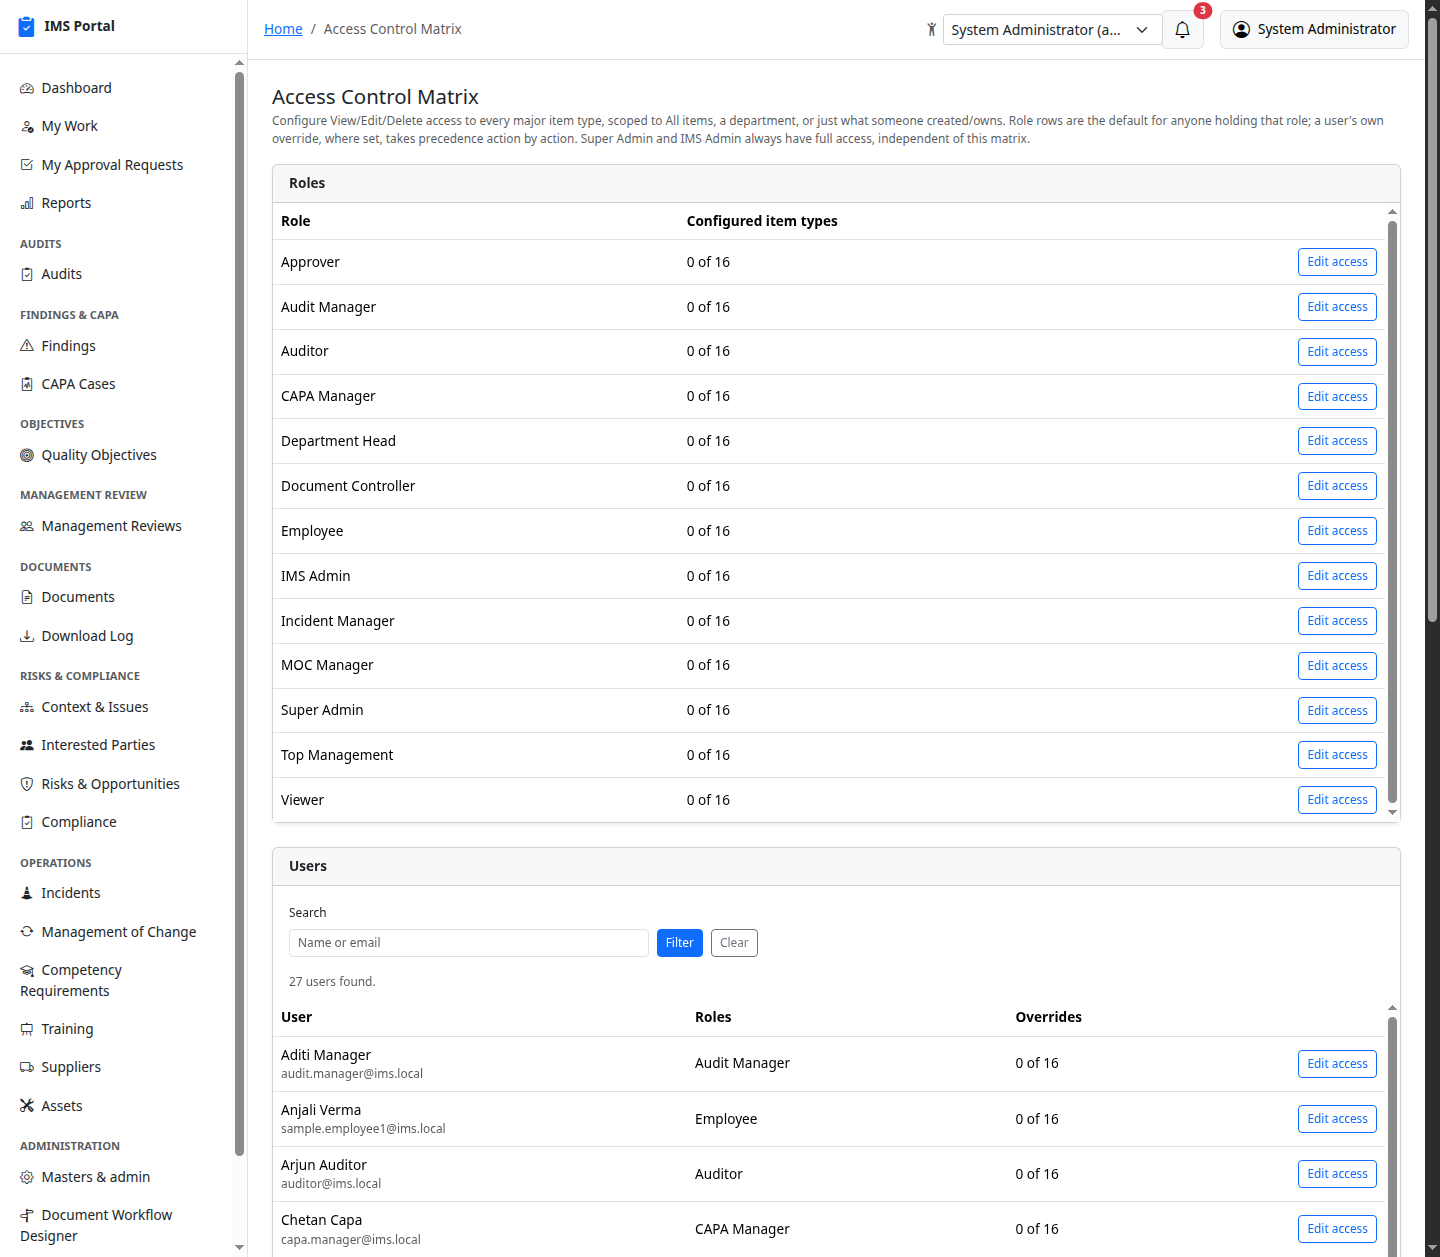
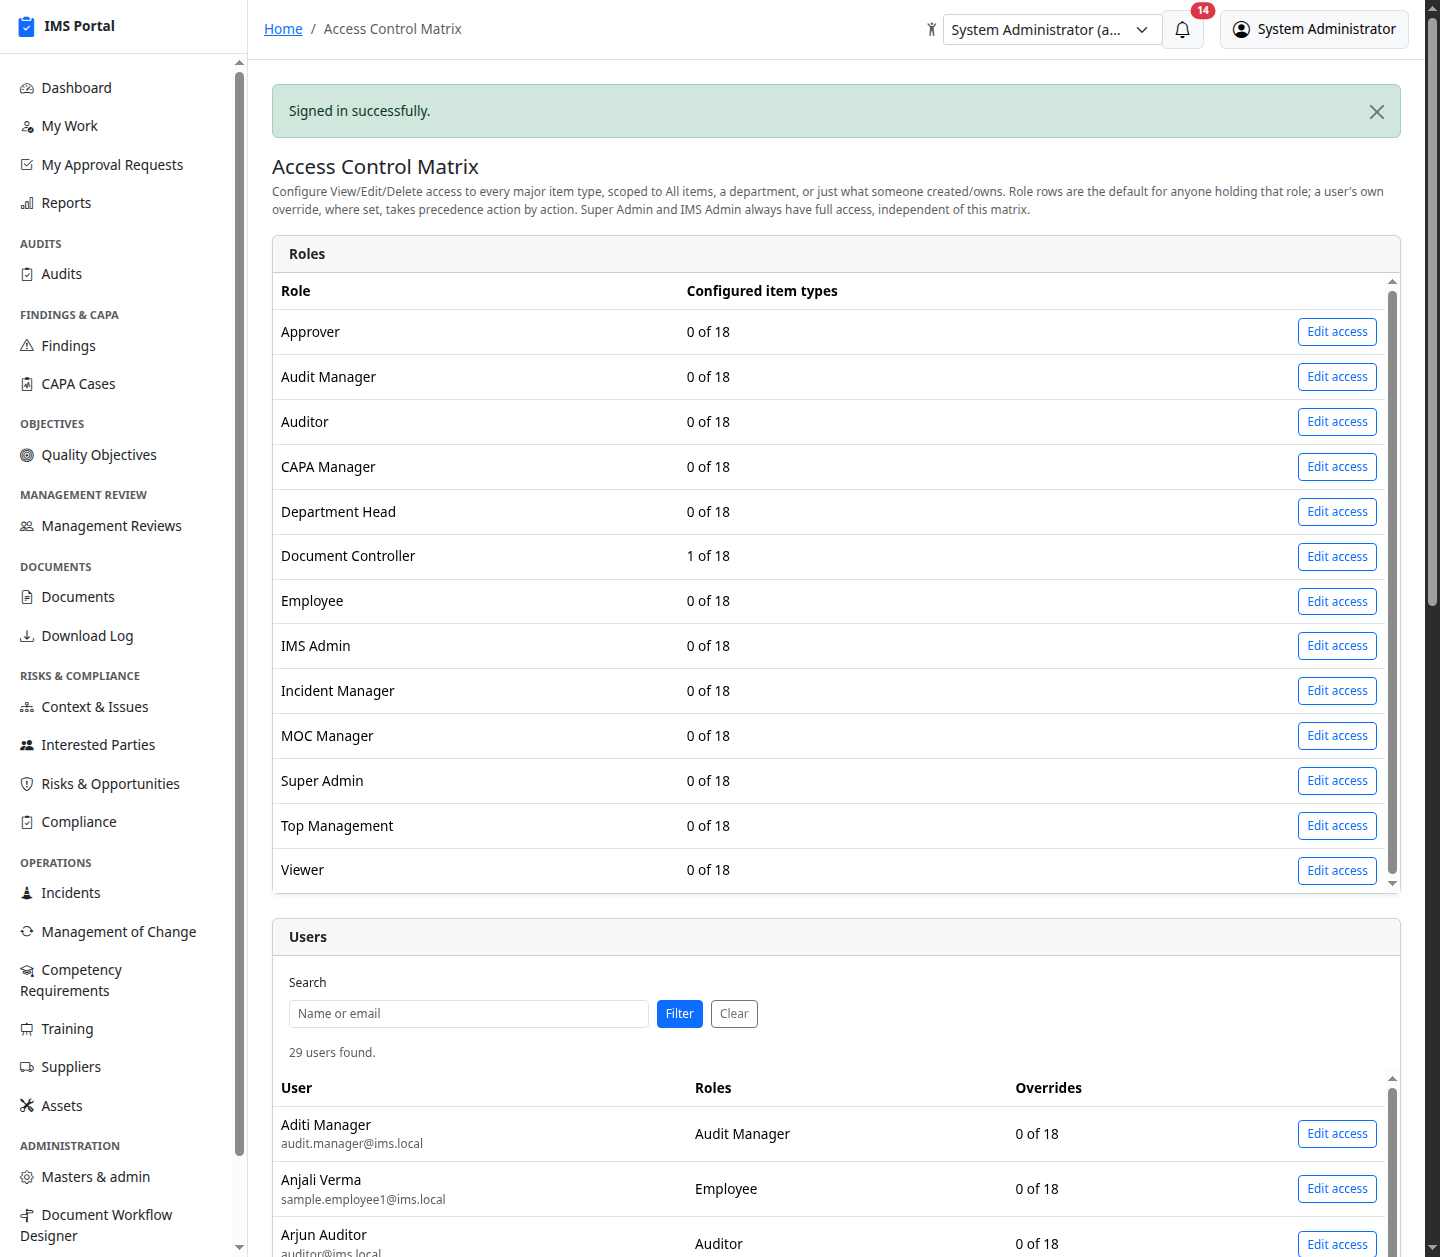
adding some guides for access control

diff --git a/17-access-control-matrix.md b/17-access-control-matrix.md
@@ -1,0 +1,195 @@
+# How the Access Control Matrix works
+
+Every module in this guide already has its own baked-in access rules —
+you own it, you head the department, you're the assigned reviewer, and so
+on. The **Access Control Matrix** (Masters & admin → Access Control
+Matrix) is a second, *optional* layer on top of those rules for the cases
+code doesn't already cover: "let the Viewer role see every asset, company
+-wide" or "let this one auditor into approval history without promoting
+them." It's admin-configurable, so that kind of grant is a form submission,
+not a deploy.
+
+This page is a deep dive into how it actually resolves a grant. For the
+screens themselves, see [Masters & Admin](01-masters-and-admin.md#access-control-matrix).
+
+## The mental model: it only ever adds
+
+The single most important rule: **the matrix never takes anything away.**
+Every ability in the app — the built-in ones and the matrix's own — is a
+grant, and grants only ever combine by addition. Setting a matrix row to
+**None** does not revoke access a model's own bespoke rules already give
+someone; it simply means the matrix itself isn't adding anything extra for
+that resource. There is no way to use this screen to lock someone out of
+something they could otherwise see.
+
+That's why the worked example below reads the way it does: before any
+matrix row exists, a Viewer already sees their own department's Assets
+(the app's ordinary department-based rule); the matrix is what widens that
+to every department, for a whole role or for one specific person.
+
+## Role rows vs. user rows
+
+Every row in the matrix belongs to **exactly one** of:
+
+- A **Role** — the default for everyone holding that role.
+- A **User** — a per-person override, editable action-by-action.
+
+A user's own setting always wins over their role's, but only for the
+actions it actually sets. On a user's page every field starts on
+**Inherit from role**, meaning "no opinion — use whatever my role(s)
+grant for this one action." You can override just Delete for one person
+on one resource type and leave View and Edit inherited; nothing forces
+all three to move together.
+
+If someone holds two roles with different settings for the same resource,
+the **more permissive one wins** (see [Resolution order](#resolution-order-precisely)
+below) — same principle: additive, never restrictive.
+
+## The four scopes
+
+Each of the three columns — **View / Edit / Delete** — is set
+independently to one of:
+
+| Scope | Meaning |
+|---|---|
+| **None** | The matrix grants nothing extra for this action. (Not a lockout — see above.) |
+| **Own** | Records this person created or owns. |
+| **Department** | Records belonging to any department they're a member of. |
+| **All** | Every record of this type, company-wide, regardless of department or ownership. |
+
+**Own** and **Department** are only offered where the underlying model
+actually has a column the matrix knows how to scope by — a few models
+(Training Sessions, Suppliers) have no owner or department field, so
+those two options simply don't appear for them; you'll only ever see
+**None** and **All**.
+
+## Resolution order, precisely
+
+For a given user, resource type, and action (say: "Karan Mehta", "Asset",
+"view"), the effective scope is computed as:
+
+1. **Does Karan have his own override row for Asset, with a non-nil View
+   value?** If yes, that value wins outright — done.
+2. **Otherwise, look at every role Karan holds.** Collect the View value
+   from each role's Asset row, if it has one. Take the single most
+   permissive value across all of them (`all` beats `department` beats
+   `own` beats `none`).
+3. **No role has a rule for Asset at all?** The matrix contributes
+   nothing — falls through to whatever the model's own ability rules
+   already grant.
+
+This is exactly what `AccessControlRules::Resolver#scope_for` does, and it
+loads every rule for that user once up front, so checking all eighteen
+matrix rows for a page costs two queries total, not two per row.
+
+## Worked example: widening a role, then overriding one person
+
+The **Viewer** role in this app's sample data has no bespoke code-level
+abilities of its own — everything a Viewer sees, they see either through
+the app's ordinary "your own department" rules or through the matrix.
+That makes it a clean, real illustration of what the matrix actually adds.
+
+**Before:** Farhan Sheikh (Viewer role, Production department) opens
+Assets and sees exactly the four assets in his own department — the
+app's normal department-scoped rule, nothing matrix-related yet:
+
+![Assets, before any matrix grant — scoped to Farhan's own department](images/masters-admin/27-worked-example-before.png)
+
+**Grant the Viewer role company-wide View on Assets.** Masters & admin →
+Access Control Matrix → **Viewer** → **Edit access** → set the Assets row's
+View column to **All** → **Save**:
+
+![Setting Assets → View → All for the Viewer role](images/masters-admin/29-role-matrix-selected.png)
+
+**After:** reload as Farhan — now 17 assets across every department, not
+just Production. Nothing about his role, his department membership, or
+his account changed; only the matrix row did:
+
+![Assets, after the role-level grant — every department](images/masters-admin/30-worked-example-after-role-grant.png)
+
+**Now make it personal, not role-wide.** Suppose that company-wide view
+should really only apply to Farhan, not every Viewer. Put the role's
+Assets row back to **None** (removing the blanket grant), then open
+**Farhan Sheikh**'s own row from the matrix's **Users** list and set
+*his* Assets → View to **All** — everyone else with the Viewer role loses
+the company-wide view; Farhan personally keeps it:
+
+![Farhan Sheikh's own override: Assets → View → All, everything else still inherited](images/masters-admin/31-user-override-selected.png)
+
+Saving a user's matrix redirects back to the index, which now shows the
+override in the **Overrides** column of the Users list:
+
+![Access Control Matrix index — Farhan Sheikh now has 1 of 18 overridden](images/masters-admin/32-user-override-after-save.png)
+
+Farhan still sees all 17 assets — this time from his own override, not
+from the role:
+
+![Assets, after the per-user override — still every department](images/masters-admin/33-worked-example-after-user-override.png)
+
+That's the whole mechanism: a role row sets the default for a whole
+group; a user row carves out one person's exception, action by action,
+without touching the role or anyone else holding it.
+
+## Removing a grant
+
+- **On a role's page**, every field always has a real value (there's no
+  "inherit" option — a role has nothing above it to inherit from), so
+  "removing" a grant means explicitly setting it back to **None**.
+- **On a user's page**, setting every field for a resource back to
+  **Inherit from role** and saving deletes that row entirely, rather than
+  leaving a dead all-inherited row behind — that's what makes "no
+  override" actually mean "no row exists," not "a row that happens to
+  say nothing."
+
+## Non-model rows: matrix-driven feature toggles
+
+Most rows govern a real record type end-to-end — View/Edit/Delete on the
+whole thing. Two rows are different: they don't correspond to an
+ActiveRecord model at all, and only their **View** column does anything
+(Edit/Delete show **Not applicable**, since there's nothing on a tab to
+edit or delete):
+
+- **Documents — Version Control tab** — shows or hides the Version
+  Control tab on a document's page. Ships with one seeded default (the
+  **Document Controller** role gets **View: All**), but from here it's
+  an ordinary matrix row like any other.
+- **Documents — Approval/Activity/Download Log tabs** — widens who sees
+  those three tabs *beyond* whoever the Admin Department/Admin All
+  document tier already shows them to. Ships with **no** default row,
+  since the tier-based grant already covers the normal case — use this
+  one to add a specific role or specific person without changing their
+  document tier.
+
+Internally, these resolve through the exact same
+`AccessControlRules::Resolver#scope_for` call as every real-model row —
+the only difference is what happens with the result. An ordinary row
+feeds `grant_matrix_scope`, which turns a scope into a generic
+`can <action>, SomeModel[, condition]`. A non-model row is read directly
+by `Abilities::AccessControlMatrix#apply_synthetic_matrix_abilities` and
+turned into one named ability instead (`:read_version_history` /
+`:read_document_admin_tabs`), because "View: Department" wouldn't mean
+anything for a tab that isn't attached to a department column. See
+[Documents](07-documents.md#version-control-and-other-tab-visibility) for
+these two in action.
+
+This is a general pattern, not a Documents-only special case — any future
+feature/tab-level toggle can register itself the same way (`synthetic:
+true`, `actions: %i[view]`, no department/own condition) without changing
+the matrix UI, the resolver, or the controller at all.
+
+## ims_admin and Super Admin
+
+**Super Admin** bypasses all of this — `can :manage, :all` — before any
+ability module, including the matrix, ever runs.
+
+**IMS Admin** gets an equivalent blanket grant, but scoped to exactly the
+resources this matrix knows about (`can :manage, SomeModel` for every
+real, non-synthetic row) rather than truly everything — so an IMS Admin
+still goes through the ordinary matrix resolution for the two synthetic,
+tab-level rows, same as everyone else.
+
+Neither role is narrowed by an explicit **None** row that happens to
+exist for them, consistent with "the matrix only ever adds."
+
+---
+Previous: [Dashboards & Reports](16-dashboards-and-reports.md) · Back to [Getting Started](00-getting-started.md)

diff --git a/01-masters-and-admin.md b/01-masters-and-admin.md
@@ -188,8 +188,14 @@ documents each one, and they're substituted as plain text, never executed:
 
 Fine-grained, per-model **view / edit / delete** scoping layered on top of
 CanCanCan's role abilities — each action can be scoped to **None / Own /
-Department / All**. The index lists every role and lets you jump to any
-individual user's override:
+Department / All**. It only ever widens access on top of the app's
+built-in rules, never narrows it — see
+[How the Access Control Matrix works](17-access-control-matrix.md) for the
+full mechanics (role vs. user rows, how conflicting grants resolve, and a
+worked before/after example) and screenshots for the screens below.
+
+The index lists every role and lets you jump to any individual user's
+override:
 
 ![Access control matrix index](images/masters-admin/23-access-control-matrix-index.png)
 

diff --git a/README.md b/README.md
@@ -44,6 +44,9 @@ Sample/demo login credentials are printed by the seed tasks — see
 16. [Assets](15-assets.md) — calibration and maintenance records.
 17. [Dashboards & Reports](16-dashboards-and-reports.md) — the
     organization dashboard and every printable/exportable report.
+18. [How the Access Control Matrix works](17-access-control-matrix.md) —
+    role vs. user rows, the four scopes, resolution order, a worked
+    before/after example, and the non-model tab-toggle rows.
 
 ## Conventions used throughout
 

diff --git a/16-dashboards-and-reports.md b/16-dashboards-and-reports.md
@@ -67,4 +67,4 @@ authorization scope as its interactive counterpart — there's no
 report-only backdoor to data you couldn't otherwise see.
 
 ---
-Previous: [Assets](15-assets.md) · Back to [Getting Started](00-getting-started.md)
+Previous: [Assets](15-assets.md) · Next: [How the Access Control Matrix works](17-access-control-matrix.md)
